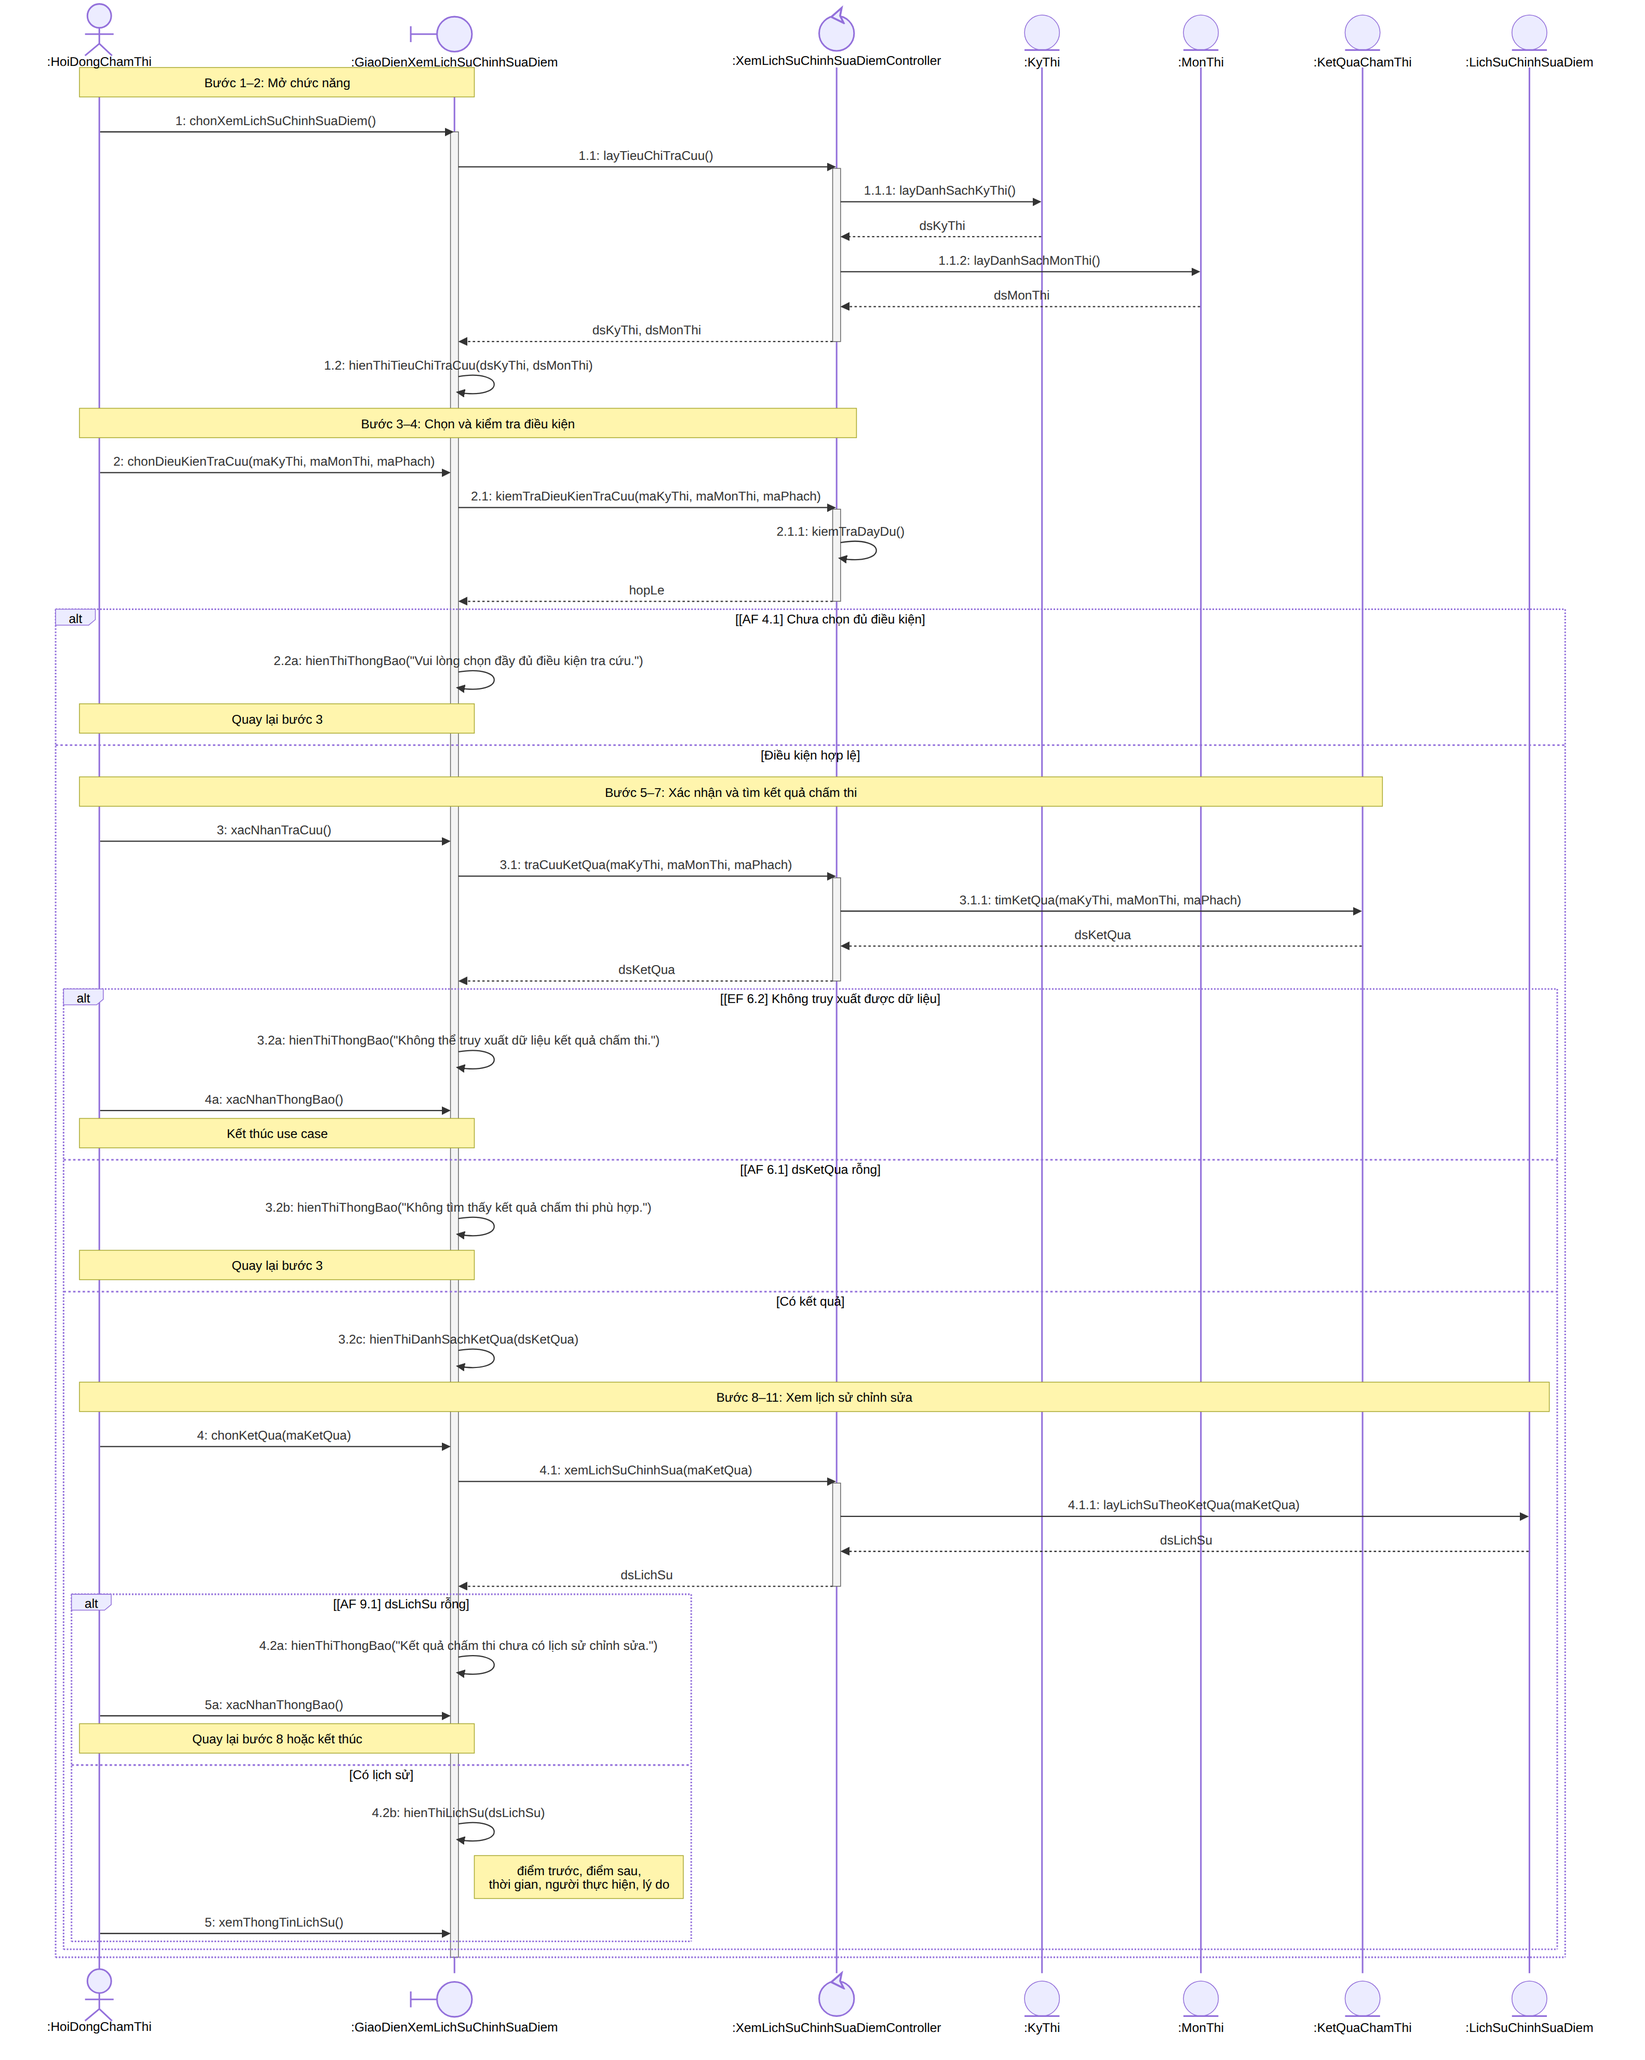
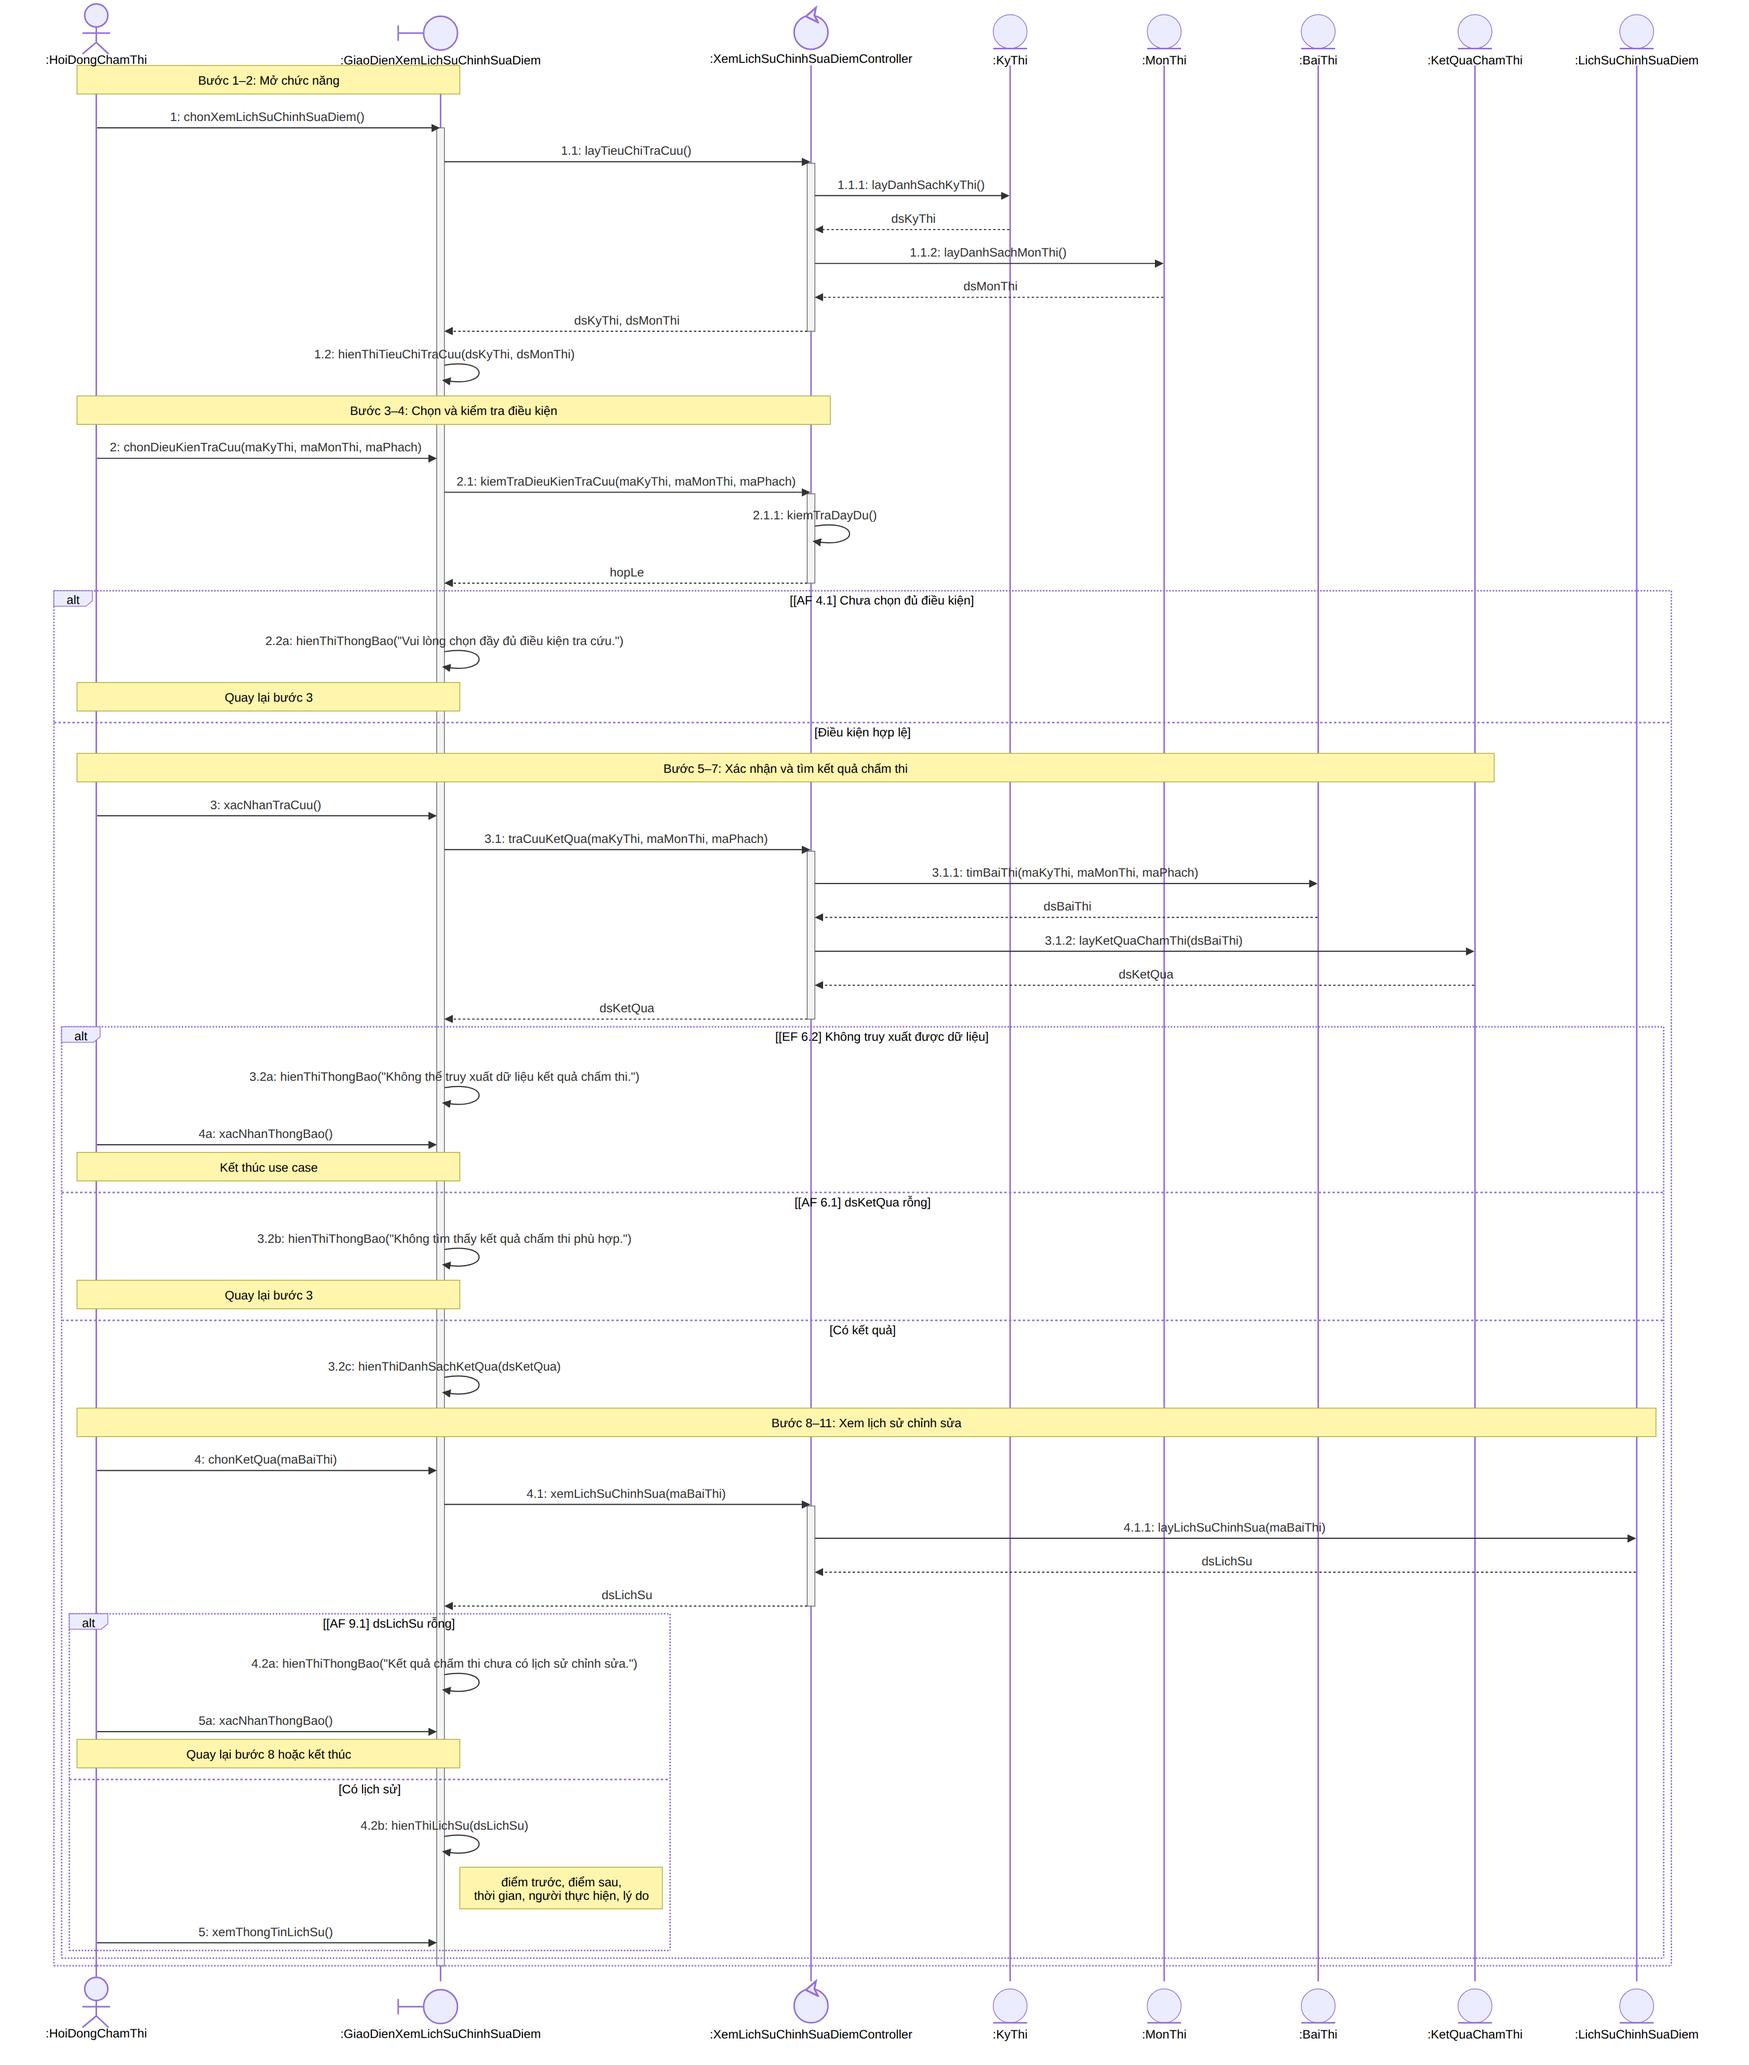
Update UC12: add BaiThi entity

diff --git a/README.md b/README.md
@@ -1,4 +1,3 @@
-<<<<<<< HEAD
 # UC12 – Xem lịch sử chỉnh sửa điểm (Sequence Diagram)
 
 Sơ đồ tuần tự cho use case **Xem lịch sử chỉnh sửa điểm**, actor **Hội đồng chấm thi**, vẽ theo kiến trúc **BCE (Boundary – Control – Entity)**.
@@ -10,7 +9,7 @@ Sơ đồ tuần tự cho use case **Xem lịch sử chỉnh sửa điểm**, ac
 | Actor | `HoiDongChamThi` |
 | Boundary | `GiaoDienXemLichSuChinhSuaDiem` |
 | Control | `XemLichSuChinhSuaDiemController` |
-| Entity | `KyThi`, `MonThi`, `KetQuaChamThi`, `LichSuChinhSuaDiem` |
+| Entity | `KyThi`, `MonThi`, `BaiThi`, `KetQuaChamThi`, `LichSuChinhSuaDiem` |
 
 ## Sơ đồ (ảnh)
 
@@ -25,6 +24,7 @@ sequenceDiagram
     participant CT as «control»<br/>:XemLichSuChinhSuaDiemController
     participant KT as «entity»<br/>:KyThi
     participant MT as «entity»<br/>:MonThi
+    participant BT as «entity»<br/>:BaiThi
     participant KQ as «entity»<br/>:KetQuaChamThi
     participant LS as «entity»<br/>:LichSuChinhSuaDiem
 
@@ -57,7 +57,9 @@ sequenceDiagram
         HD->>GD: 3: xacNhanTraCuu()
         GD->>CT: 3.1: traCuuKetQua(maKyThi, maMonThi, maPhach)
         activate CT
-        CT->>KQ: 3.1.1: timKetQua(maKyThi, maMonThi, maPhach)
+        CT->>BT: 3.1.1: timBaiThi(maKyThi, maMonThi, maPhach)
+        BT-->>CT: dsBaiThi
+        CT->>KQ: 3.1.2: layKetQuaChamThi(dsBaiThi)
         KQ-->>CT: dsKetQua
         CT-->>GD: dsKetQua
         deactivate CT
@@ -73,10 +75,10 @@ sequenceDiagram
             GD->>GD: 3.2c: hienThiDanhSachKetQua(dsKetQua)
 
             Note over HD,LS: Bước 8–11: Xem lịch sử chỉnh sửa
-            HD->>GD: 4: chonKetQua(maKetQua)
-            GD->>CT: 4.1: xemLichSuChinhSua(maKetQua)
+            HD->>GD: 4: chonKetQua(maBaiThi)
+            GD->>CT: 4.1: xemLichSuChinhSua(maBaiThi)
             activate CT
-            CT->>LS: 4.1.1: layLichSuTheoKetQua(maKetQua)
+            CT->>LS: 4.1.1: layLichSuChinhSua(maBaiThi)
             LS-->>CT: dsLichSu
             CT-->>GD: dsLichSu
             deactivate CT
@@ -119,6 +121,3 @@ sequenceDiagram
 | `UC12_Sequence_XemLichSuChinhSuaDiem.png` | Ảnh sơ đồ |
 | `UC12_XemLichSuChinhSuaDiem.puml` | Mã PlantUML (dán vào plantuml.com / VS Code) |
 | `UC12_XemLichSuChinhSuaDiem.mmd` | Mã Mermaid gốc (có icon boundary/control/entity) |
-=======
-# -sequence-diagram
->>>>>>> 267cfefeb8888c1613390ecb60c3f5946c3d362d
